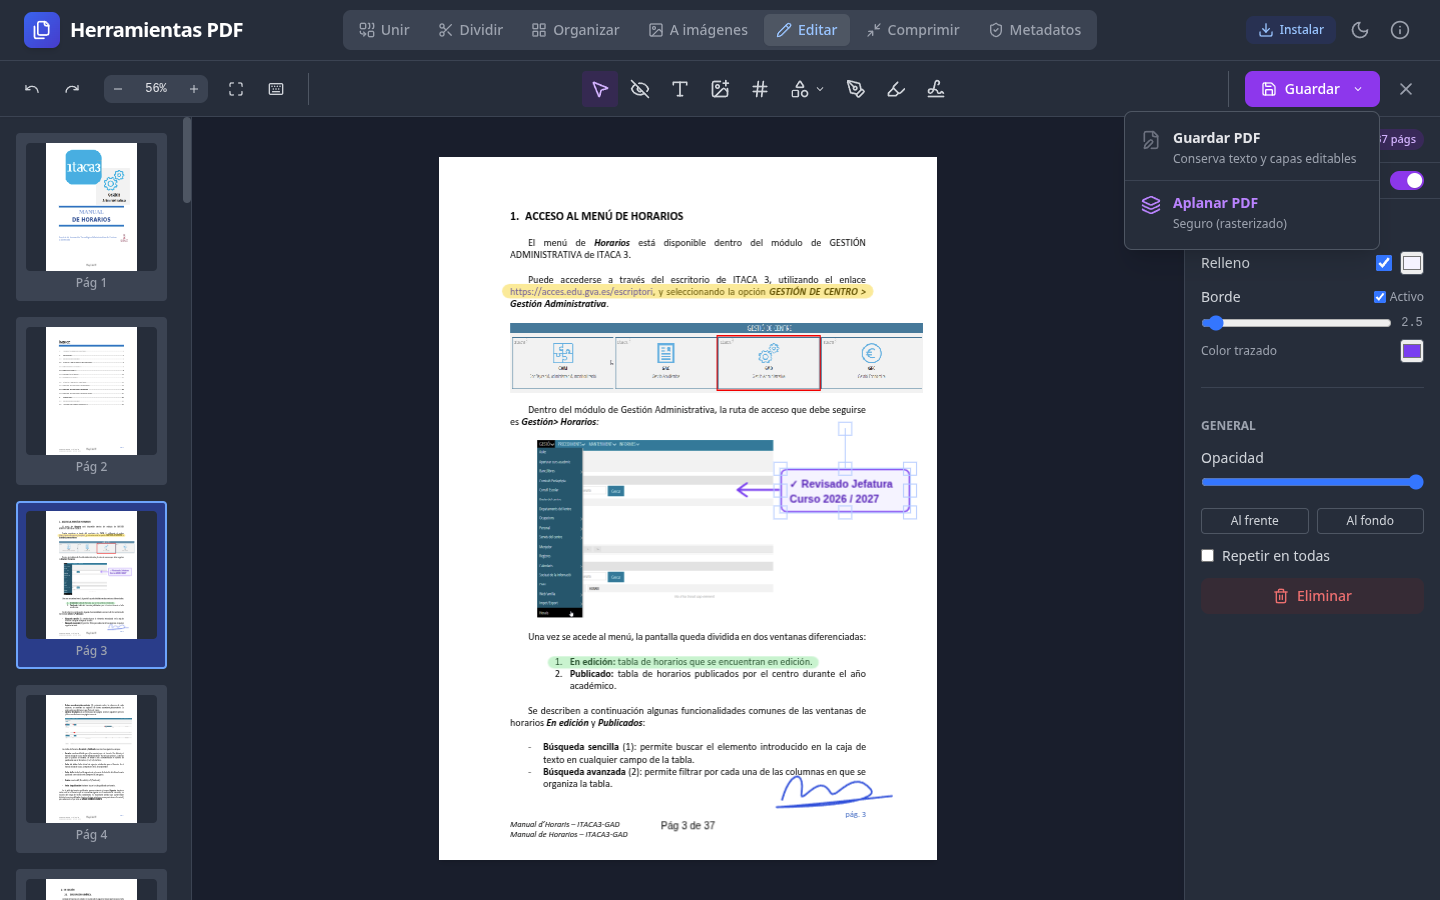
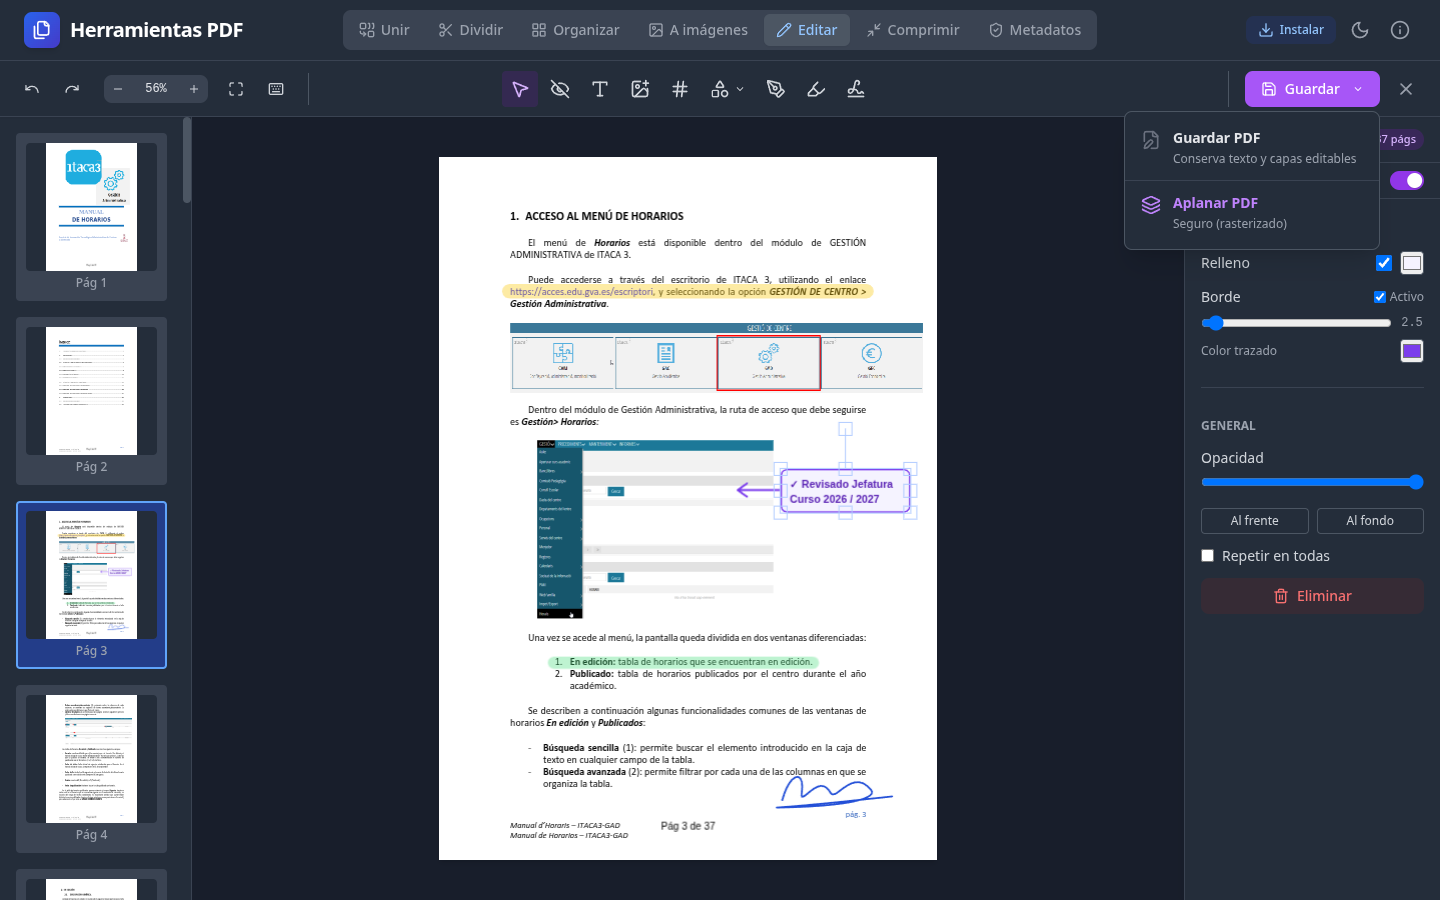
ui(editor): center toolbar tools over PDF canvas & update 05/06 screenshots (v2.0.0-beta.20)

diff --git a/index.html b/index.html
@@ -554,10 +554,10 @@
             <!-- Editor Interface -->
             <div id="editor-workspace" class="hidden flex flex-col h-full w-full">
                 <!-- Toolbar -->
-                <div class="h-14 bg-white border-b border-gray-200 flex items-center px-4 justify-between shadow-sm z-20 dark:bg-gray-800 dark:border-gray-700">
+                <div class="h-14 bg-white border-b border-gray-200 flex items-center px-4 justify-between lg:grid lg:grid-cols-[1fr_auto_1fr] shadow-sm z-20 dark:bg-gray-800 dark:border-gray-700">
                     
                     <!-- Group 1: History & Zoom -->
-                    <div class="flex items-center gap-2 border-r border-gray-200 pr-4 mr-2 dark:border-gray-600">
+                    <div class="flex items-center gap-2 border-r border-gray-200 pr-4 mr-2 lg:mr-0 lg:justify-self-start dark:border-gray-600">
                         <button type="button" onclick="editorUndo()" aria-label="Deshacer" class="p-2 hover:bg-gray-100 rounded text-gray-600 dark:text-gray-300 dark:hover:bg-gray-700" title="Deshacer (Ctrl+Z)"><i data-lucide="undo" class="w-4 h-4"></i></button>
                         <button type="button" onclick="editorRedo()" aria-label="Rehacer" class="p-2 hover:bg-gray-100 rounded text-gray-600 dark:text-gray-300 dark:hover:bg-gray-700" title="Rehacer (Ctrl+Y)"><i data-lucide="redo" class="w-4 h-4"></i></button>
                         <div class="flex items-center gap-1 ml-2 bg-gray-50 rounded-lg p-1 dark:bg-gray-700">
@@ -570,7 +570,7 @@
                     </div>
 
                     <!-- Group 2: Tools -->
-                    <div class="flex items-center gap-1">
+                    <div class="flex items-center gap-1 lg:justify-self-center xl:pe-16">
                         <button type="button" onclick="setEditorMode('select')" id="tool-select" aria-label="Seleccionar" class="tool-btn active p-2 rounded text-purple-600 bg-purple-50 dark:text-purple-300 dark:bg-purple-900/30" title="Seleccionar (V / Esc)"><i data-lucide="mouse-pointer-2" class="w-5 h-5"></i></button>
                         <button type="button" onclick="setEditorMode('pixelate')" id="tool-pixelate" aria-label="Censurar o pixelar" class="tool-btn p-2 rounded text-gray-600 hover:bg-gray-100 dark:text-gray-300 dark:hover:bg-gray-700" title="Censurar / Pixelar (X)"><i data-lucide="eye-off" class="w-5 h-5"></i></button>
                         <button type="button" onclick="addText()" aria-label="Insertar texto" class="tool-btn p-2 rounded text-gray-600 hover:bg-gray-100 dark:text-gray-300 dark:hover:bg-gray-700" title="Insertar texto (T)"><i data-lucide="type" class="w-5 h-5"></i></button>
@@ -601,7 +601,7 @@
                     </div>
 
                     <!-- Group 3: Final Actions -->
-                    <div class="flex items-center gap-2 border-l border-gray-200 pl-4 ml-2 dark:border-gray-600">
+                    <div class="flex items-center gap-2 border-l border-gray-200 pl-4 ml-2 lg:ml-0 lg:justify-self-end dark:border-gray-600">
                         <div class="relative group">
                             <button class="bg-purple-600 hover:bg-purple-700 text-white px-4 py-2 rounded-lg text-sm font-medium transition shadow-sm flex items-center gap-2 dark:bg-purple-500 dark:hover:bg-purple-600">
                                 <i data-lucide="save" class="w-4 h-4"></i> Guardar <i data-lucide="chevron-down" class="w-3 h-3 ml-1"></i>
@@ -7312,7 +7312,7 @@
         // ==========================================
         // VERSIÓN Y MÓDULO PWA (OFFLINE + ACTUALIZACIÓN)
         // ==========================================
-        const APP_VERSION = 'v2.0.0-beta.19';
+        const APP_VERSION = 'v2.0.0-beta.20';
         const APP_BUILD_DATE = '11/11/2026';
 
         const versionBadge = document.getElementById('app-version-badge');

diff --git a/sw.js b/sw.js
@@ -1,4 +1,4 @@
-const CACHE_VERSION = 'pdftools-v2.0.0-beta.19';
+const CACHE_VERSION = 'pdftools-v2.0.0-beta.20';
 
 const APP_SHELL = [
     './',
